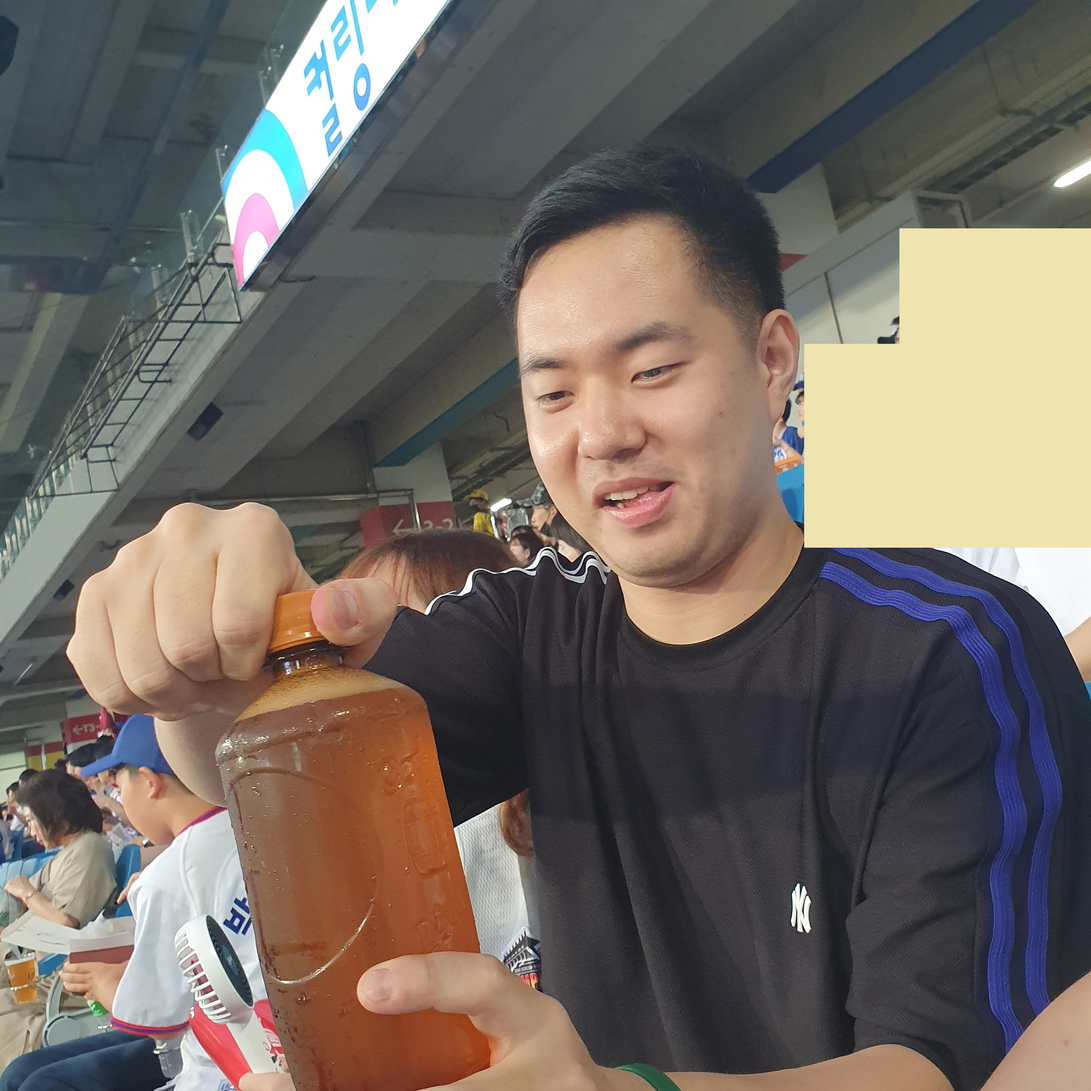
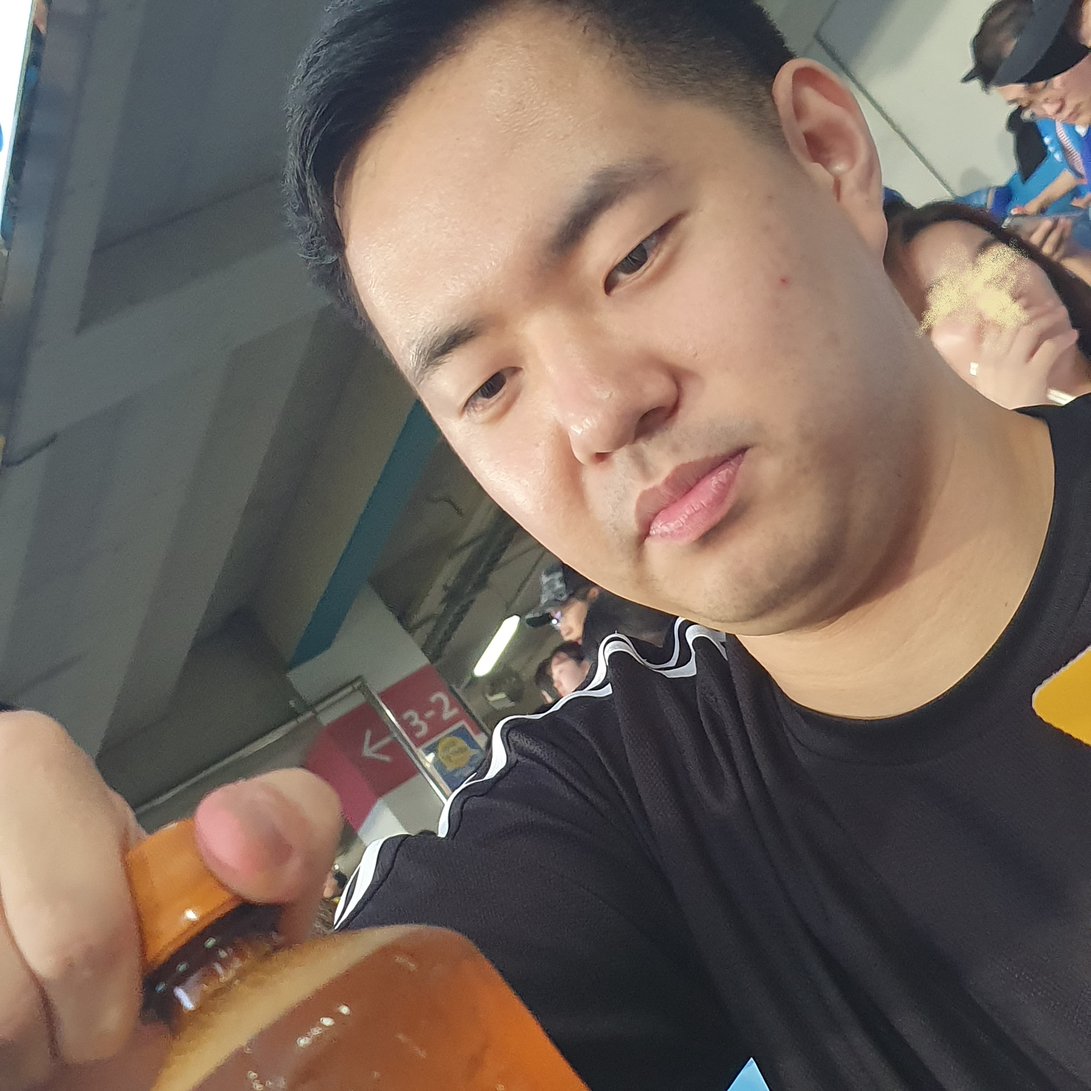
added pictures

diff --git a/Baseball/Baseball.md b/Baseball/Baseball.md
@@ -3,9 +3,11 @@
 트랙원 김나연 김민정 김주원 류종현 신준철 양희열 우예빈 윤치호 이윤지 이준병 정아단 채지영 최준혁 표승완 홍선주 홍지수  
 ### __한 번도 안 간 사람은 있어도 한 번도 안 가본 사람은 없다!__ 
 ~~모든 승, 패의 기준은 삼성 라이온즈입니다 ㅎㅎ~~
+
 ## [1. 첫 번째 방문](episodes/1.md)
 8.30 vs SK Wyvens (0:2 패배)
 
 ## [2. 두 번째 방문](episodes/2.md)
 9.27 vs SK Wyvens (0:4 패배)
+
 ## 3. 다음 방문은.. 인천 원정..?

diff --git a/Baseball/episodes/1.md b/Baseball/episodes/1.md
@@ -2,3 +2,6 @@
 ![단체사진1](../Static/190830/group1.jpg)  
 단체사진 1  
 ![단체사진2](../Static/190830/group2.jpg)  
+![바보강민1](../Static/190830/qkqhrkdals1.jpg)
+![바보강민2](../Static/190830/qkqhrkdals2.jpg)
+![바보강민3](../Static/190830/qkqhrkdals3.jpg)
